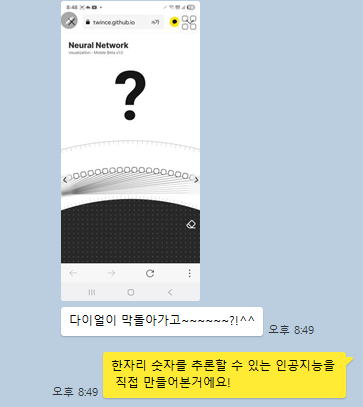
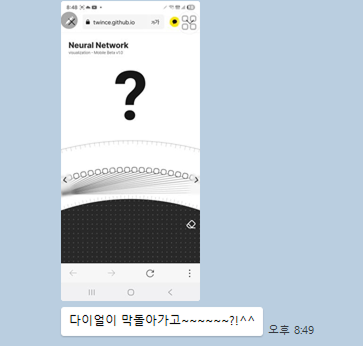
content: 시리즈 설명·경력 문구 다듬기 + nnv-2 QA 에셋 갱신

diff --git a/src/ui/layouts/about/experience.data.ts b/src/ui/layouts/about/experience.data.ts
@@ -71,7 +71,7 @@ export const EXPERIENCE_YEARS: ExperienceYear[] = [
         title: "군복무 중 수상 및 포상",
         bullets: [
           "병 858기 진급평가 우수자 수상",
-          "특급병사 / 체력검정 특급 (2025 하반기 체력검정 만점)",
+          "특급병사 / 체력검정 특급 포상 (2025 하반기 체력검정 만점)",
           "대대 사격 성적 최우수 병사"
         ],
       }
@@ -95,7 +95,7 @@ export const EXPERIENCE_YEARS: ExperienceYear[] = [
       {
         title: "군입대",
         period: "2024.5 ~ 2026.3",
-        bullets: ["공군 제 858기 항공기전자장비정비특기"],
+        bullets: ["공군 제 858기 항공기전자장비정비특기(병장 만기전역) "],
       },
     ],
   },
